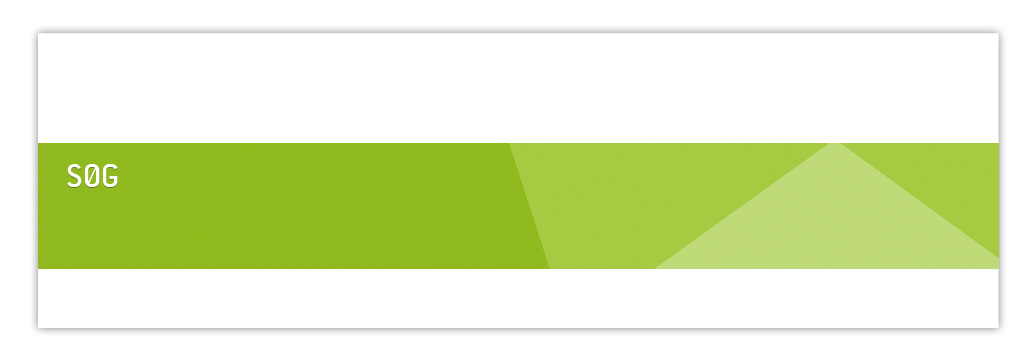
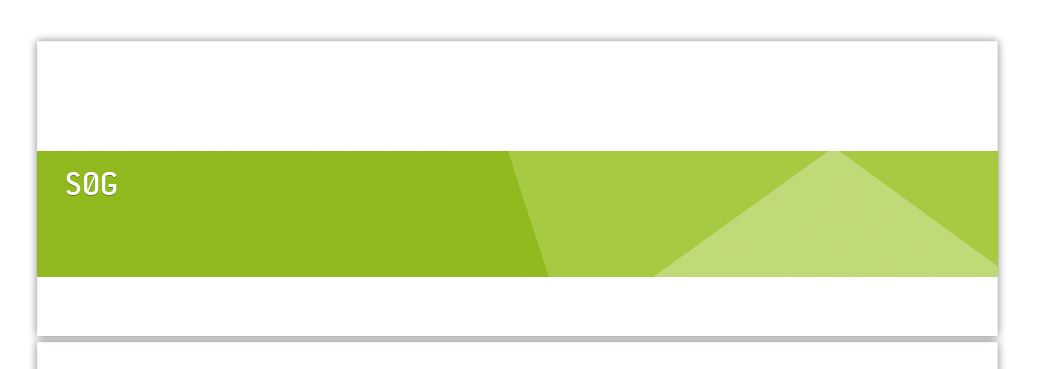
prepared footer for address-section, prepared for kviklinks-menu on frontpage, lining up columns

diff --git a/style/wellejus.css b/style/wellejus.css
@@ -4,9 +4,8 @@ body {
   background: url("../images/bg.jpg") repeat scroll center 0 #DDDDDD;
   }
 
-#path, #pagebody { margin-top:25px; }  
-
 #path { 
+  margin-top:25px;
   margin-left: 44px; 
   } 
     
@@ -28,28 +27,34 @@ body {
   } 
 
   
-.frontpage .panel-content .left .panel-top {
-    height: auto;
-    padding-bottom: 20px;
-    padding-right: 20px;
-    width: 670px;
+.panel-threecol-33-34-33-stacked .panel-top {
+    width: 905px;
 }  
   
-.frontpage .panel-left {
+.panel-threecol-33-34-33-stacked .panel-left {
   float: left;
   padding-right: 20px;
-  width: 440px;
+  width: 437px;
+  border-right:none;
+  background-image:none;
   }
 
-.frontpage .panel-middle {
+.panel-threecol-33-34-33-stacked .panel-middle {
   float: left;
-  width: 210px;
+  width: 212px;
+  background-image:none;
+  margin-top: 10px;
   }  
   
-.frontpage .panel-content .right {
+.panel-threecol-33-34-33-stacked .panel-right {
     float: left;
-    width: 210px;
+    width: 235px;
 }
+
+.panel-threecol-33-34-33-stacked .panel-right .pane-relevant_campaigns {
+  float:right;
+  margin-top:10px;
+  }
   
 #header {
   height: 50px;
@@ -91,8 +96,8 @@ body {
 }
 
 #pageheader {
-  background: url("../images/bg-header.png") no-repeat scroll -22px -17px transparent;
-  height: 316px;
+  background: url("../images/bg-header.png") no-repeat scroll -21px -25px transparent;
+  height: 330px;
   position: relative;
   width: 994px;
   }
@@ -240,7 +245,7 @@ body {
 }
 
 #content-inner {
-  margin: 0 0 0 28px;
+  margin: 14px 0 0 28px;
   }
   
 .content-top { 
@@ -289,6 +294,39 @@ body {
     margin: 5px 0 0 10px;
 }
 
+#kviklinks {
+  width: 220px;
+  float: right;
+  }
+  
+#kviklinks h3 {
+  padding: 0 10px;
+  text-transform: uppercase;
+  font-size:12px;
+  }
+  
+#kviklinks ul.menu {
+  margin-top:11px;
+  }  
+  
+#kviklinks ul.menu li.leaf {
+  margin:0;
+  }  
+  
+#kviklinks ul.menu li.leaf a {
+  background: url("../images/arrow.png") no-repeat scroll 0 2px transparent;
+  color: #000;
+  font-size: 11px;
+  font-weight:normal;
+  padding: 0 0 0 12px;
+  text-transform: uppercase;
+  display:block;
+  }
+  
+#kviklinks ul.menu li.leaf a:hover {
+  font-weight:bold;
+  }  
+
 .meta .author a, .meta .author a:link, .meta .author a:visited, .meta .author a:active {
   color: inherit;
   text-decoration: none;
@@ -336,10 +374,10 @@ body {
   margin: 0;
   }
 
-ul, .item-list ul {
-  margin:12px;
-  }  
-  
+body.page-biblioteker .panel-left .view ul li {
+  padding: 10px 0;
+  }
+ 
 .panel-left .view ul li, .panel-left ul.item-list li, .panel-left .pane-library_feature_detail_list ul li {
   background: none;
   padding: 10px 0px;
@@ -350,10 +388,10 @@ ul, .item-list ul {
   border-top:none;
   }  
   
-.pane-vejlebib_article_list-panel_pane_3 {
-  padding:0 20px;
-  }	
-
+.panel-left .view, .panel-left .pane-library_feature_detail_list ul.item-list {
+  left: 0px;
+  }
+  
 .pane-vejlebib_article_list-panel_pane_3 h2 {
   text-transform:uppercase;
   font-weight:bold;
@@ -405,7 +443,7 @@ ul, .item-list ul {
   font-size:10px;
   }
   
-#event-list h3 {
+#event-list h3, #kviklinks h3 {
   margin:0;
   color:white;
   font-weight:bold;
@@ -508,3 +546,19 @@ ul, .item-list ul {
 .view-library-list .node-teaser-library .picture .overlay.give { background-image: url(../images/ovlay125x125-orange.png); }
 .view-library-list .node-teaser-library .picture .overlay.jelling { background-image: url(../images/ovlay125x125-blue.png); }
 .view-library-list .node-teaser-library .picture .overlay.vejle { background-image: url(../images/ovlay125x125-green.png); }
+
+#pagefooter-inner div.left {
+  min-height: 190px;
+  }
+
+#pagefooter-bottom {
+  font-size: 12px;
+  margin: -10px 0 0;
+  padding: 0 40px;
+  text-align: center;
+  }
+  
+#pagefooter-bottom .block {
+  border-top: 1px solid silver;
+  }
+  

diff --git a/node.tpl.php b/node.tpl.php
@@ -10,7 +10,7 @@ if ($page == 0) { ?>
 
 <div id="node-<?php print $node->nid; ?>" class="<?php print $classes; ?> clearfix">
 
-  <div class="picture"><?php print $list_image; ?></div>
+  <div class="picture"><?php print $field_list_image[0]['view']; ?></div>
 
   <div class="content">
 
